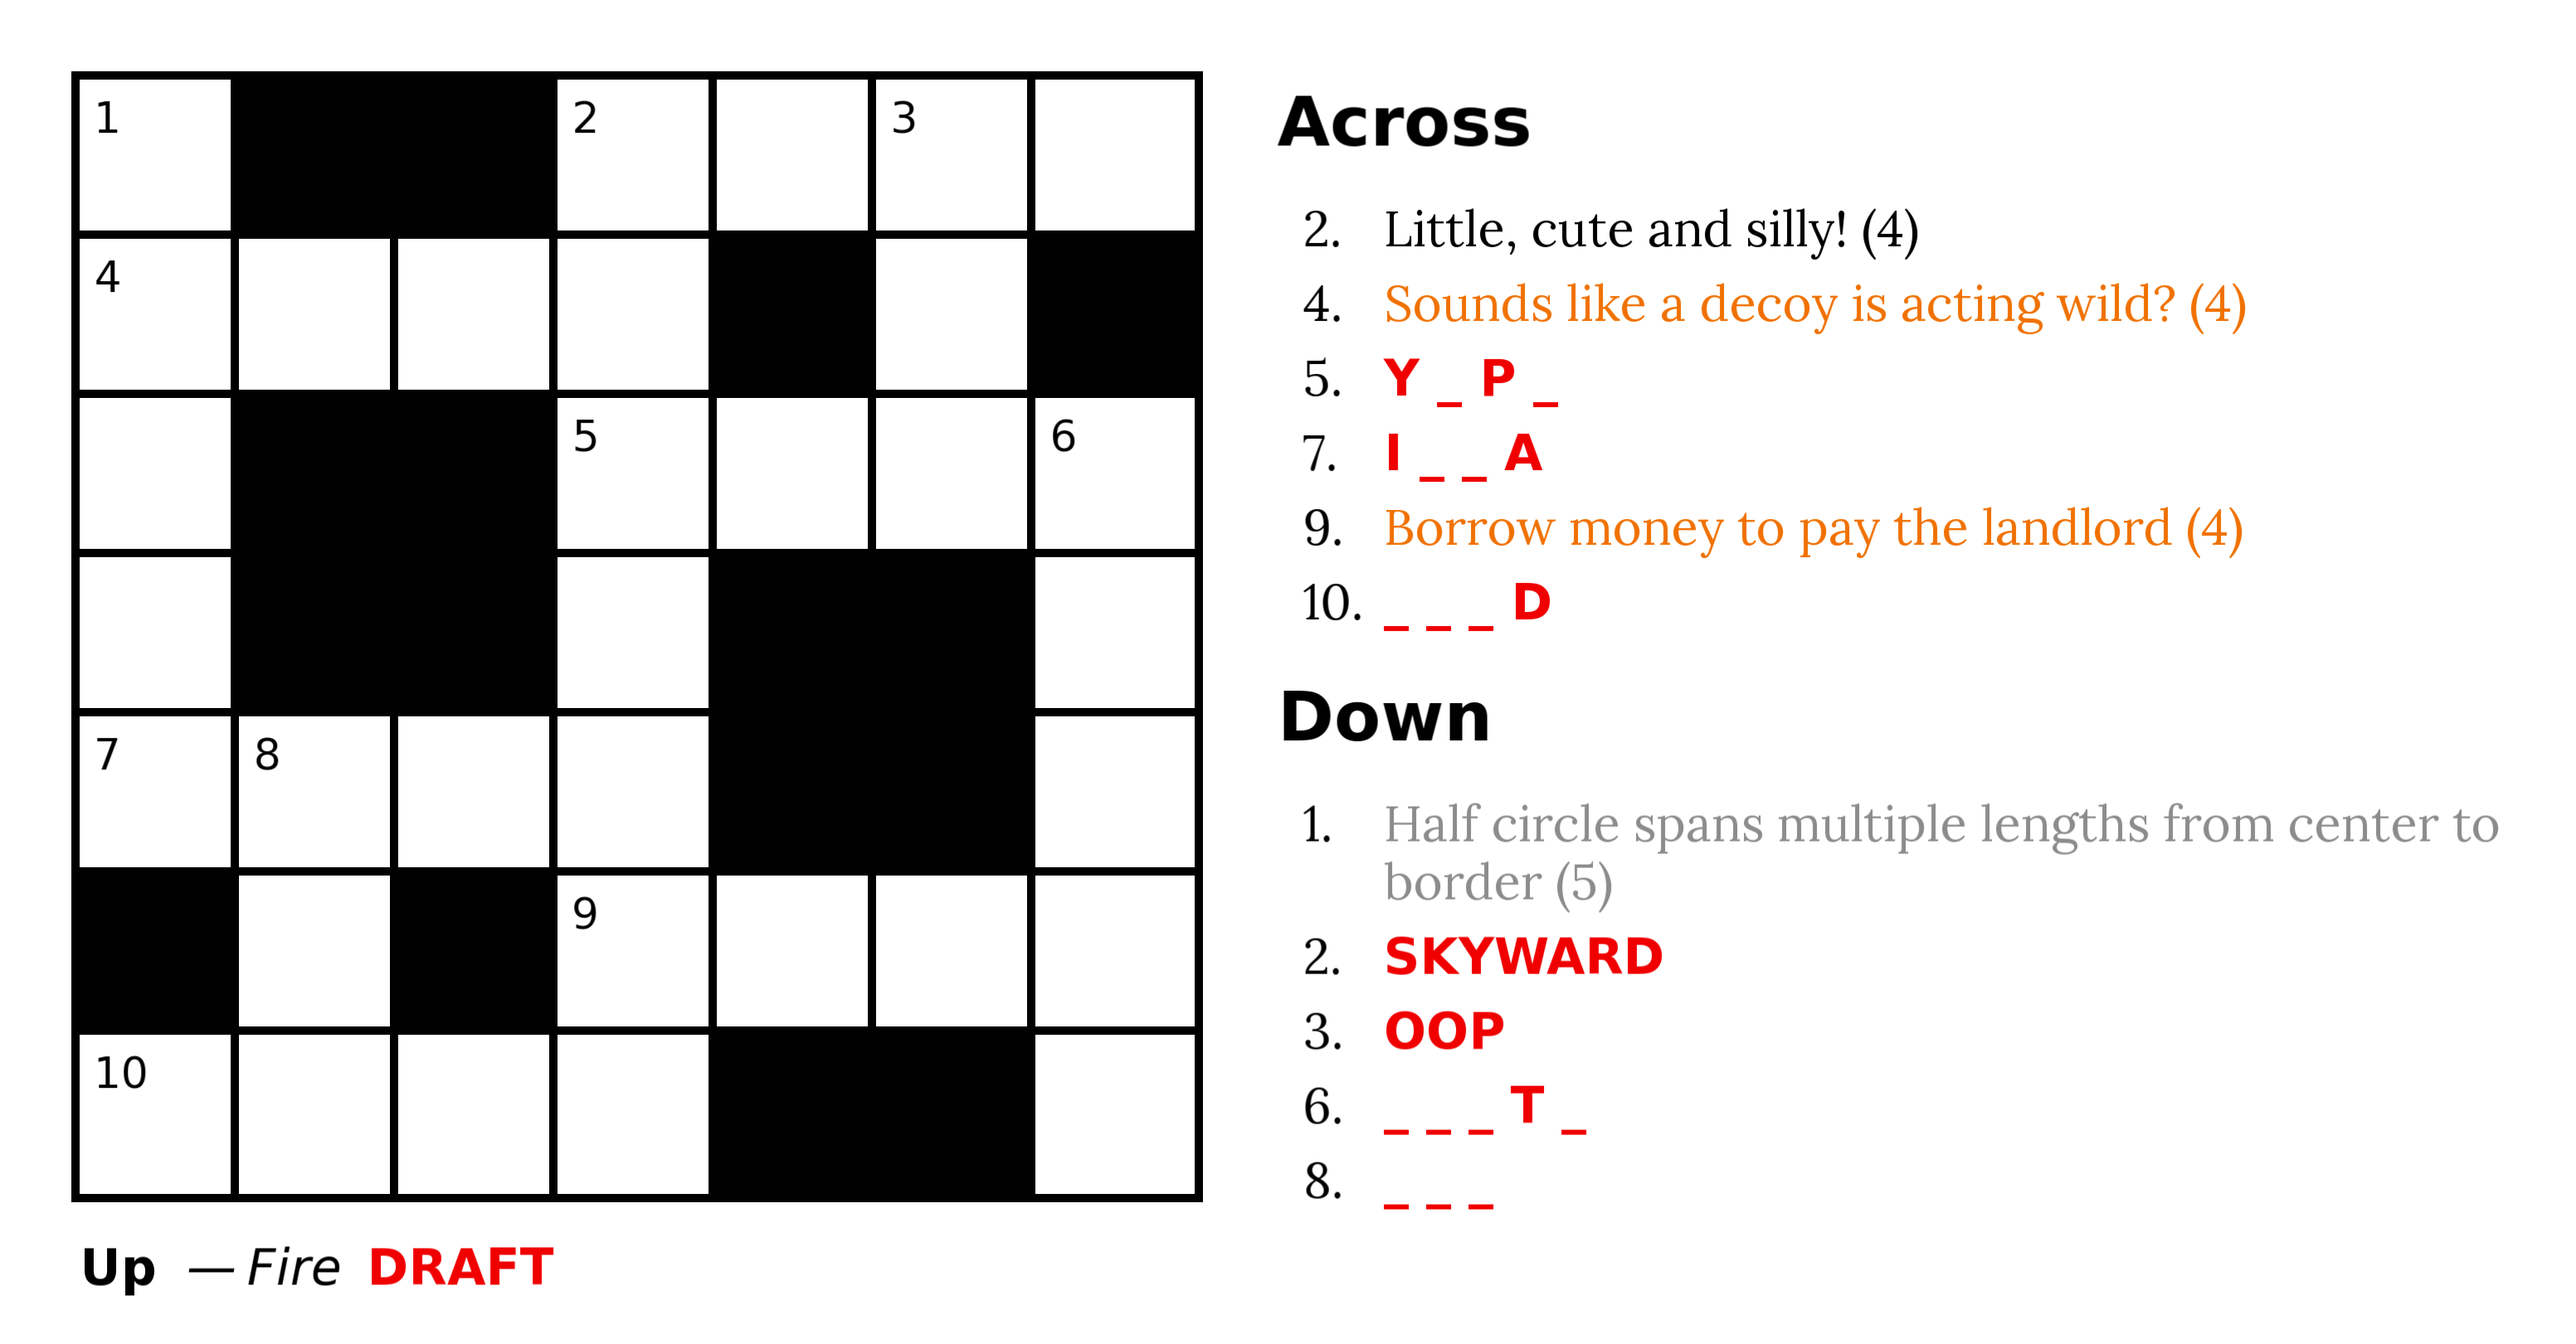
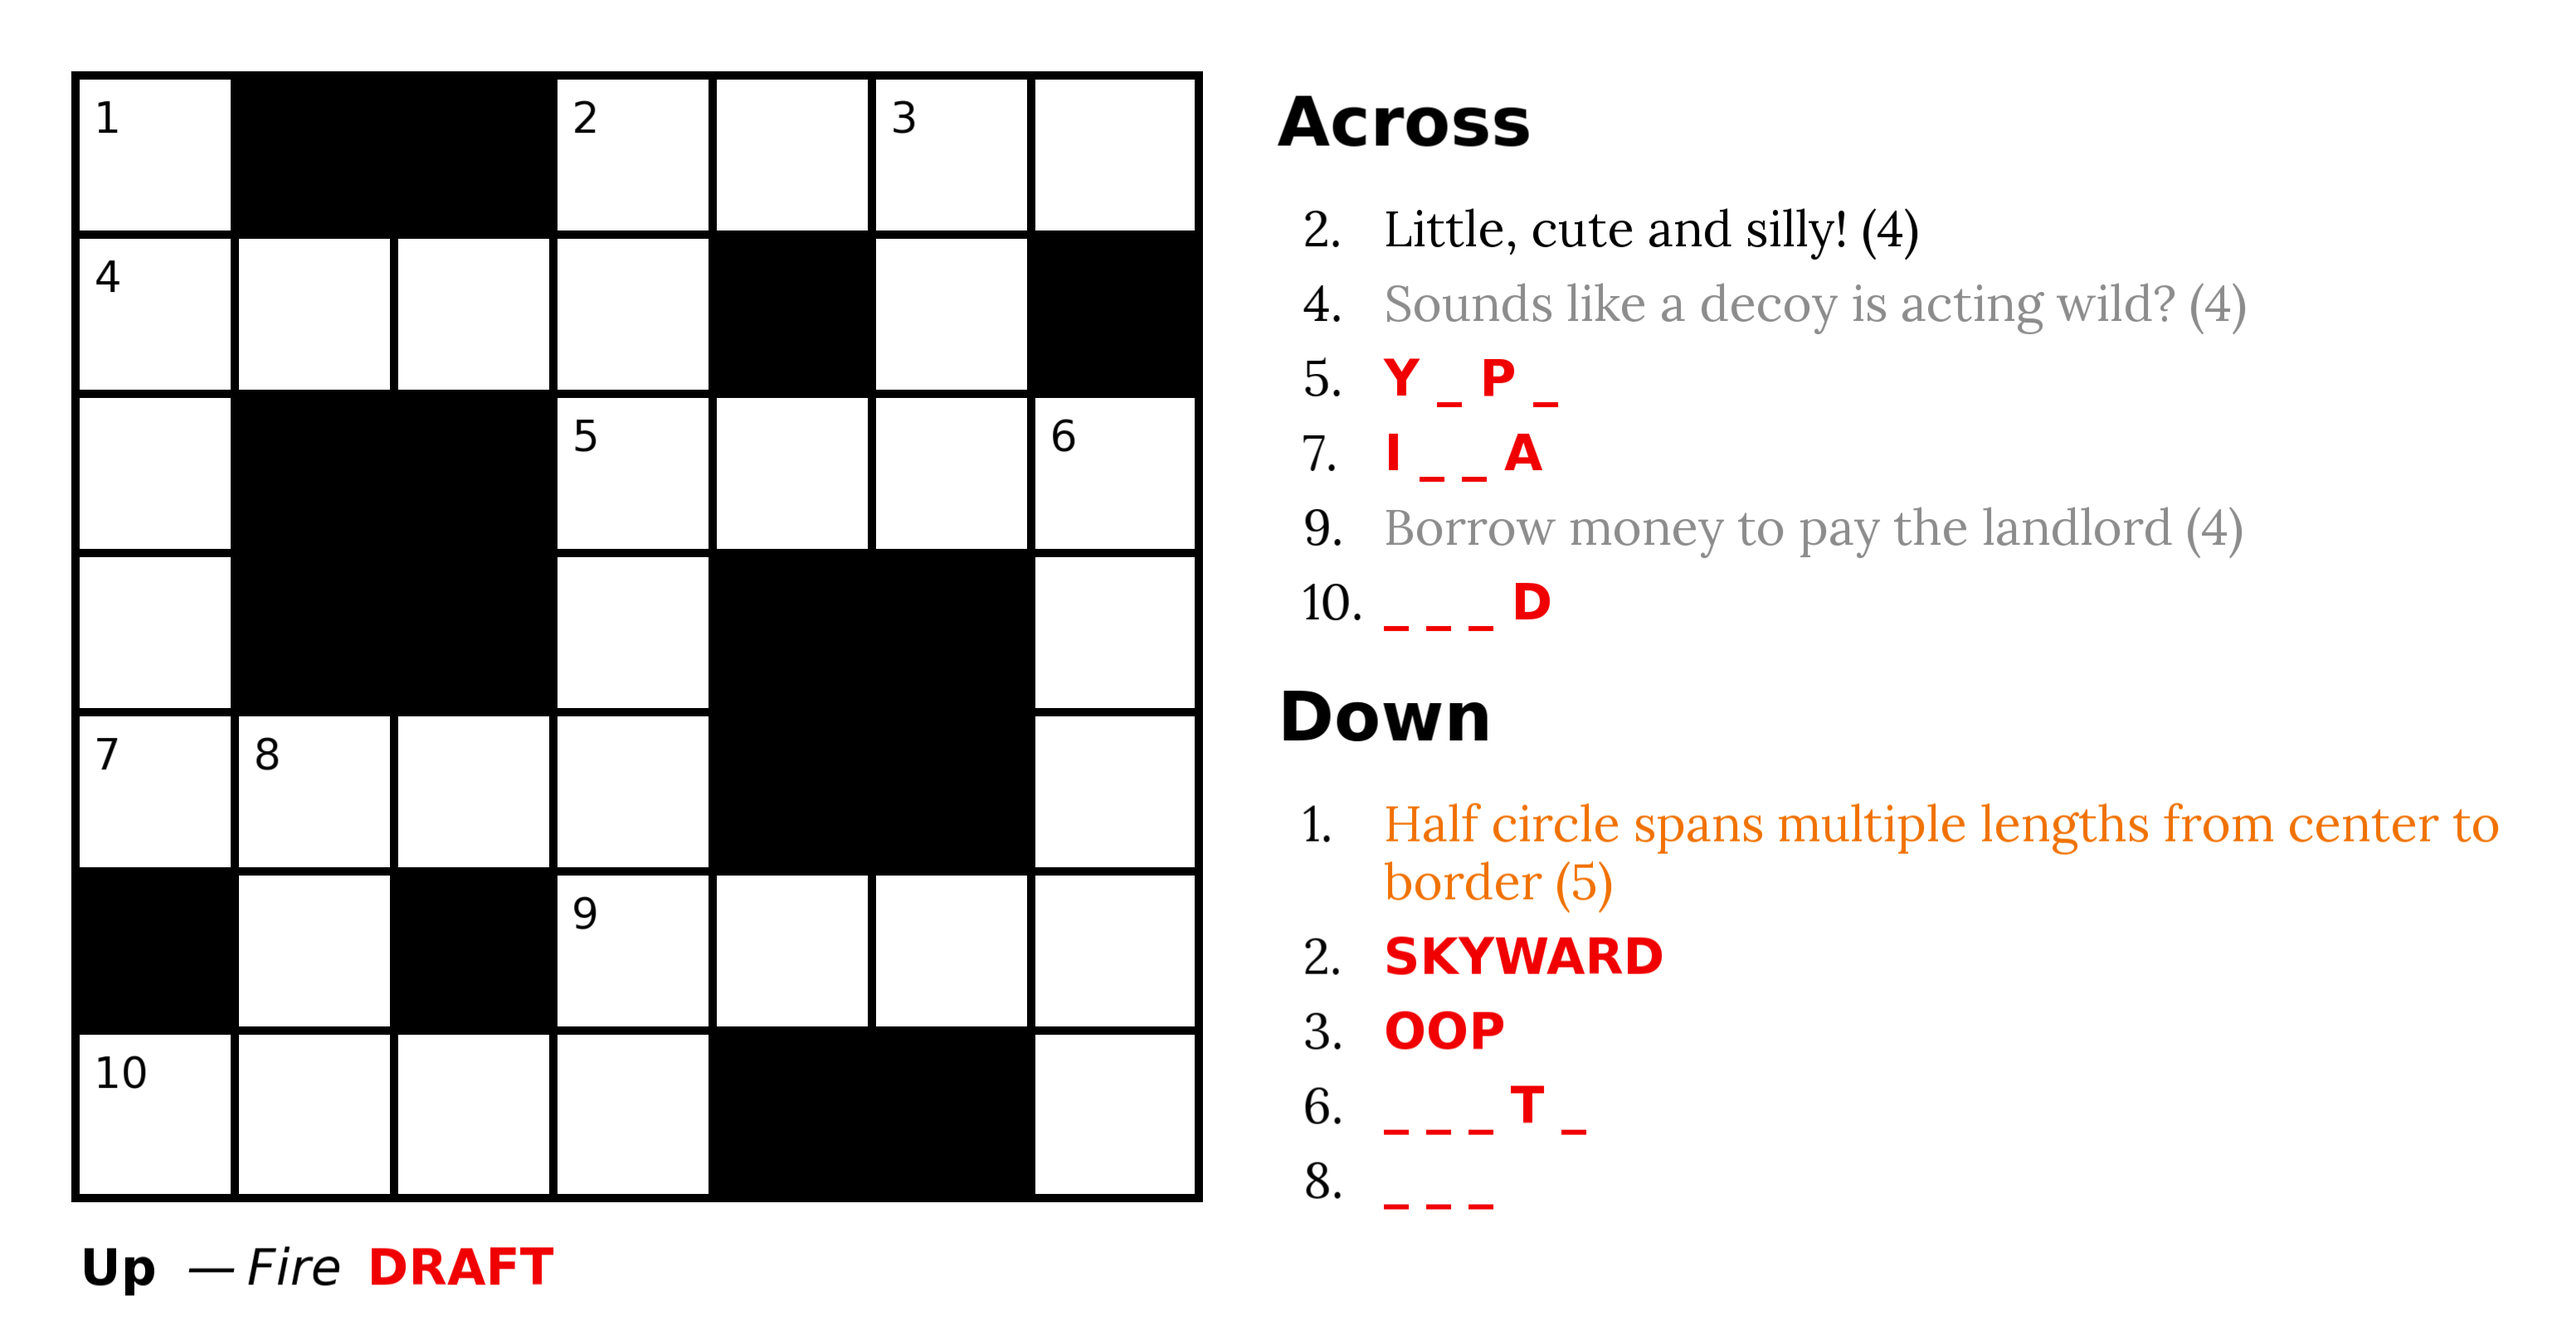
Switched colors of @Draft and @Tentative.

Changed region(s): [[0.5311, 0.5861, 0.9684, 0.6786], [0.5311, 0.3701, 0.8747, 0.401], [0.5311, 0.2159, 0.8747, 0.2468]]

diff --git a/src/main.rs b/src/main.rs
@@ -328,9 +328,9 @@ fn main() {
 
         let clue = clue_vec.remove(0);
 
-        if clue.status == Tentative {
+        if clue.status == Draft {
             clue_color = Color::rgb(240, 113, 0);
-        } else if clue.status == Draft {
+        } else if clue.status == Tentative {
             clue_color = Color::rgb(140, 140, 140);
         }
 

diff --git a/README.md b/README.md
@@ -56,8 +56,8 @@ Any line with `%%%` causes parsing to stop. You can put comments or whatever oth
 - Use `@Clue-With-Col-2: 6` to put the Down clues in a separate column and also specify the maximum width of that column.
 - In the grid, use `0` or any other non-letter character to indicate a white square that you haven't chosen a letter for yet. The tile will appear blank even in the answer key, and a placeholder clue will be created for words that cross through it. See `examples/up_incomplete.txt` for an example.
 - On any line, use `//` to create a comment, as in `ANSWER: Clue clue clue // comment`.
-- Preface a clue with `@Tentative` to mark it as tentative; it will show up in orange in the image render.
-- Preface a clue with `@Draft` to mark it as tentative; it will show up in pale grey in the image render.
+- Preface a clue with `@Draft` to mark it as a draft; it will show up in orange in the image render.
+- Preface a clue with `@Tentative` to mark it as tentative; it will show up in pale grey in the image render.
 
 ## Error handling
 
